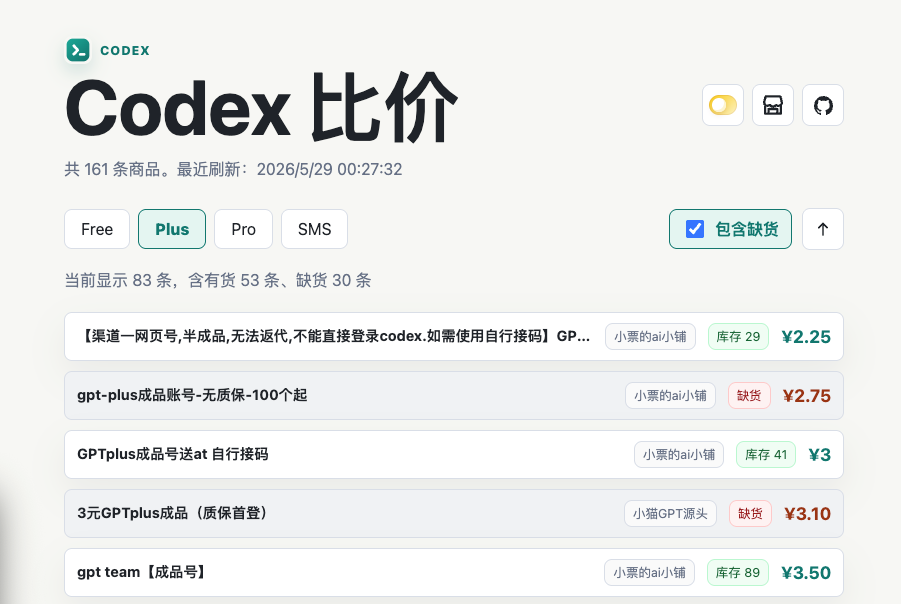
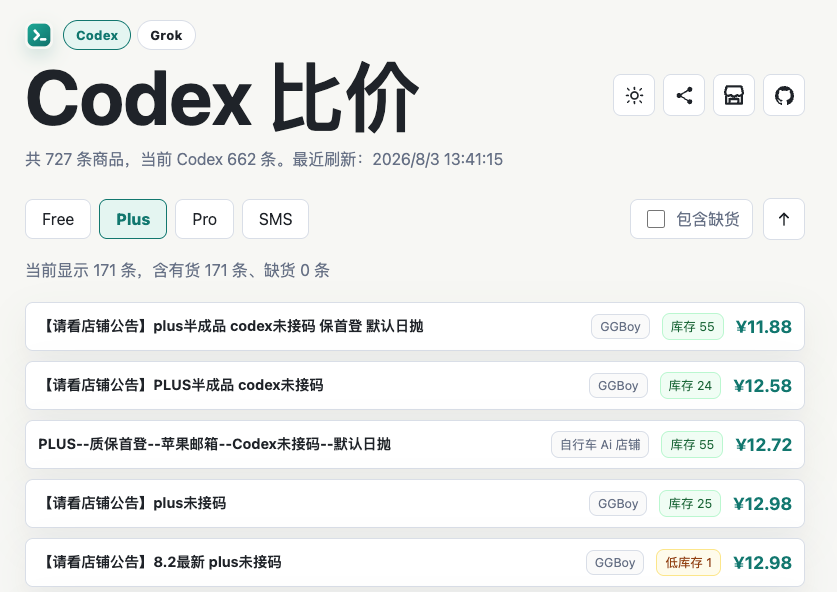
Update README previews with Codex and Grok screenshots.

diff --git a/README.md b/README.md
@@ -10,6 +10,8 @@
 
 ![Codex 比价主页面截图](assets/codex-price-compare-home.png)
 
+![Grok 比价主页面截图](assets/grok-price-compare-home.png)
+
 主页面支持 Codex / Grok 模式切换。Codex 模式默认聚焦 Plus 商品，并提供 Free、Plus、Pro、SMS 分类；Grok 模式默认聚焦 3M，并提供 Free、1-2M、3M、1Y 分类。同一列表展示商品标题、来源店铺、库存状态和价格，也可开启“包含缺货”对比完整供给。
 
 ## 项目特性
@@ -251,7 +253,10 @@ WECHATBRIDGE_TARGET=your_contact_name
 ├── admin.html              # 后台管理页面
 ├── admin.js                # 后台管理逻辑
 ├── app.js                  # 主页面逻辑
-├── assets/logo.svg         # 站点图标
+├── assets/
+│   ├── logo.svg            # 站点图标
+│   ├── codex-price-compare-home.png  # Codex 模式预览图
+│   └── grok-price-compare-home.png   # Grok 模式预览图
 ├── data/
 │   ├── rules.json          # 分类规则
 │   ├── sources.json        # 店铺数据源
